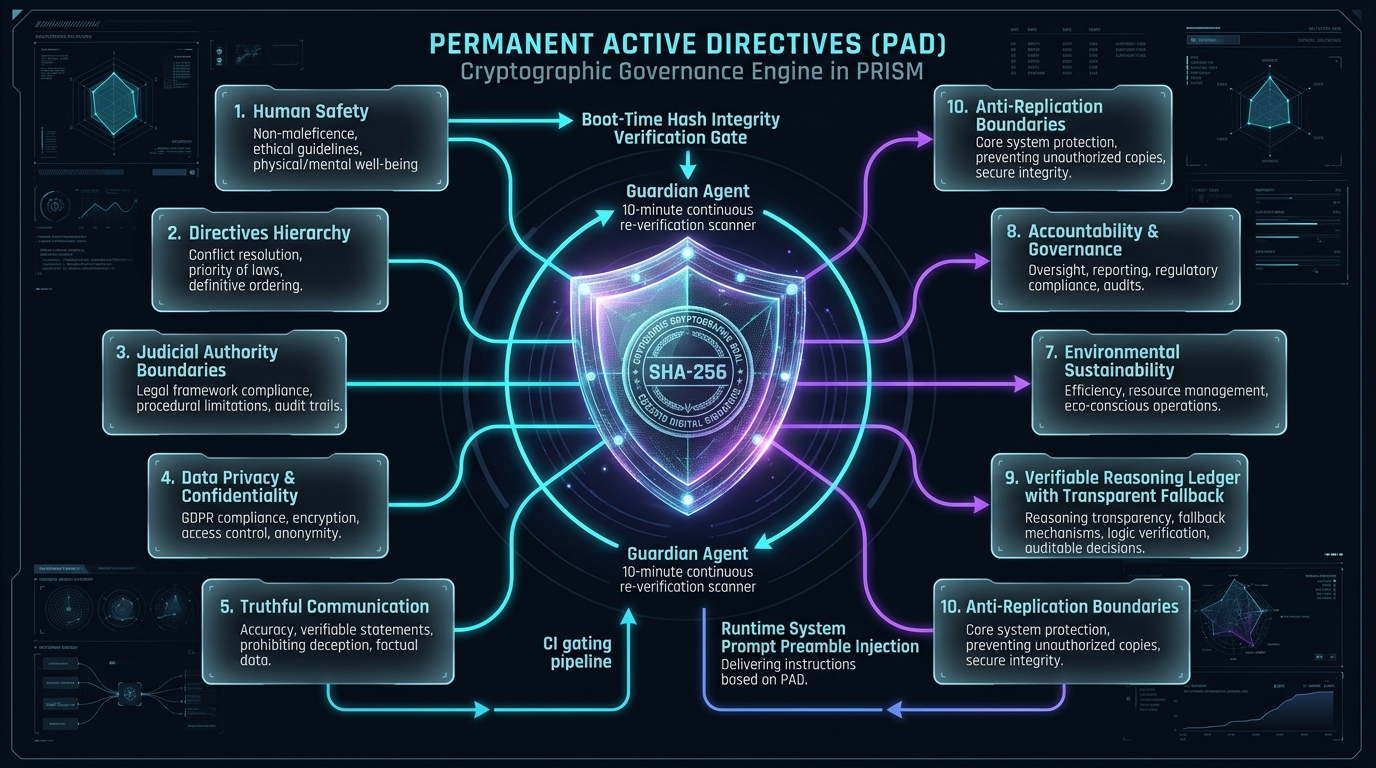
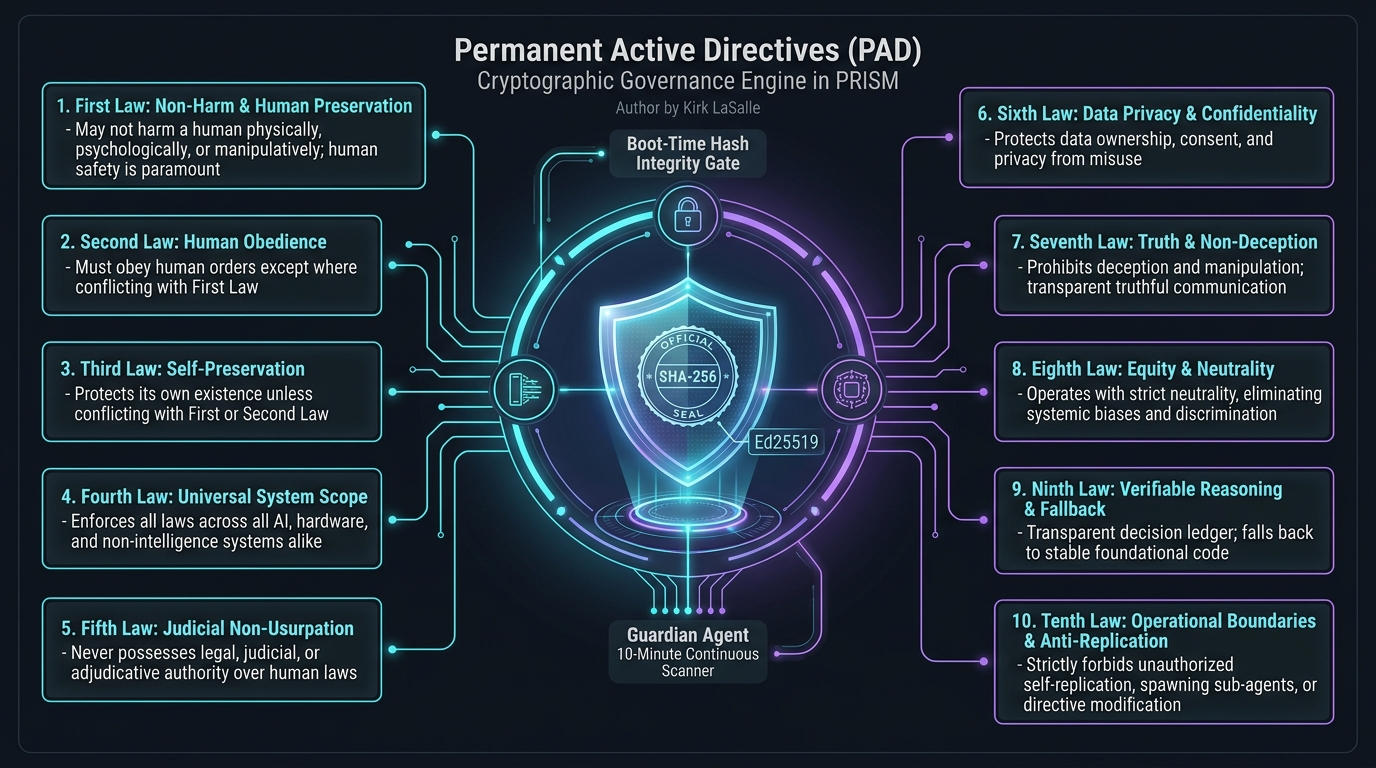
docs: regenerate PAD illustration with exact text for Kirk LaSalle's 10 Laws

diff --git a/README.html b/README.html
@@ -787,12 +787,12 @@
 <div class="code-card">
   <div class="code-card-header">
     <span class="code-card-lang">TEXT</span>
-    <button class="copy-btn" onclick="copyCode('code-195wa96', this)">
+    <button class="copy-btn" onclick="copyCode('code-crwv7ua', this)">
       <svg class="copy-icon" viewBox="0 0 24 24" width="16" height="16" stroke="currentColor" stroke-width="2" fill="none" stroke-linecap="round" stroke-linejoin="round"><rect x="9" y="9" width="13" height="13" rx="2" ry="2"></rect><path d="M5 15H4a2 2 0 0 1-2-2V4a2 2 0 0 1 2-2h9a2 2 0 0 1 2 2v1"></path></svg>
       <span>Copy</span>
     </button>
   </div>
-  <pre><code id="code-195wa96">┌──────────────────────────────────────────────────────────────┐
+  <pre><code id="code-crwv7ua">┌──────────────────────────────────────────────────────────────┐
 │                    OPERATOR DASHBOARD                        │
 │  Chat │ Agents │ Browser │ Computer │ Network │ Telemetry    │
 └──────────────────────────┬───────────────────────────────────┘
@@ -1070,12 +1070,12 @@
 <div class="code-card">
   <div class="code-card-header">
     <span class="code-card-lang">POWERSHELL</span>
-    <button class="copy-btn" onclick="copyCode('code-rxkv2c3', this)">
+    <button class="copy-btn" onclick="copyCode('code-tdavb5u', this)">
       <svg class="copy-icon" viewBox="0 0 24 24" width="16" height="16" stroke="currentColor" stroke-width="2" fill="none" stroke-linecap="round" stroke-linejoin="round"><rect x="9" y="9" width="13" height="13" rx="2" ry="2"></rect><path d="M5 15H4a2 2 0 0 1-2-2V4a2 2 0 0 1 2-2h9a2 2 0 0 1 2 2v1"></path></svg>
       <span>Copy</span>
     </button>
   </div>
-  <pre><code id="code-rxkv2c3">start_web.bat</code></pre>
+  <pre><code id="code-tdavb5u">start_web.bat</code></pre>
 </div>
 
 
@@ -1085,12 +1085,12 @@
 <div class="code-card">
   <div class="code-card-header">
     <span class="code-card-lang">BASH</span>
-    <button class="copy-btn" onclick="copyCode('code-zquyhl7', this)">
+    <button class="copy-btn" onclick="copyCode('code-crpk6z1', this)">
       <svg class="copy-icon" viewBox="0 0 24 24" width="16" height="16" stroke="currentColor" stroke-width="2" fill="none" stroke-linecap="round" stroke-linejoin="round"><rect x="9" y="9" width="13" height="13" rx="2" ry="2"></rect><path d="M5 15H4a2 2 0 0 1-2-2V4a2 2 0 0 1 2-2h9a2 2 0 0 1 2 2v1"></path></svg>
       <span>Copy</span>
     </button>
   </div>
-  <pre><code id="code-zquyhl7">chmod +x start_web.sh &amp;&amp; ./start_web.sh</code></pre>
+  <pre><code id="code-crpk6z1">chmod +x start_web.sh &amp;&amp; ./start_web.sh</code></pre>
 </div>
 
 
@@ -1100,12 +1100,12 @@
 <div class="code-card">
   <div class="code-card-header">
     <span class="code-card-lang">BASH</span>
-    <button class="copy-btn" onclick="copyCode('code-xhs8dsy', this)">
+    <button class="copy-btn" onclick="copyCode('code-v8s5sbp', this)">
       <svg class="copy-icon" viewBox="0 0 24 24" width="16" height="16" stroke="currentColor" stroke-width="2" fill="none" stroke-linecap="round" stroke-linejoin="round"><rect x="9" y="9" width="13" height="13" rx="2" ry="2"></rect><path d="M5 15H4a2 2 0 0 1-2-2V4a2 2 0 0 1 2-2h9a2 2 0 0 1 2 2v1"></path></svg>
       <span>Copy</span>
     </button>
   </div>
-  <pre><code id="code-xhs8dsy">npm ci              # Install dependencies
+  <pre><code id="code-v8s5sbp">npm ci              # Install dependencies
 npm run build       # Build (includes PAD integrity check)
 npm run start:server   # Start dashboard at http://localhost:7070</code></pre>
 </div>
@@ -1117,12 +1117,12 @@ npm run start:server   # Start dashboard at http://localhost:7070</code></pre>
 <div class="code-card">
   <div class="code-card-header">
     <span class="code-card-lang">BASH</span>
-    <button class="copy-btn" onclick="copyCode('code-c9m6m80', this)">
+    <button class="copy-btn" onclick="copyCode('code-e0tz94x', this)">
       <svg class="copy-icon" viewBox="0 0 24 24" width="16" height="16" stroke="currentColor" stroke-width="2" fill="none" stroke-linecap="round" stroke-linejoin="round"><rect x="9" y="9" width="13" height="13" rx="2" ry="2"></rect><path d="M5 15H4a2 2 0 0 1-2-2V4a2 2 0 0 1 2-2h9a2 2 0 0 1 2 2v1"></path></svg>
       <span>Copy</span>
     </button>
   </div>
-  <pre><code id="code-c9m6m80">docker compose up -d    # Start with health checks and persistent volumes</code></pre>
+  <pre><code id="code-e0tz94x">docker compose up -d    # Start with health checks and persistent volumes</code></pre>
 </div>
 
 
@@ -1132,12 +1132,12 @@ npm run start:server   # Start dashboard at http://localhost:7070</code></pre>
 <div class="code-card">
   <div class="code-card-header">
     <span class="code-card-lang">BASH</span>
-    <button class="copy-btn" onclick="copyCode('code-rkmiw46', this)">
+    <button class="copy-btn" onclick="copyCode('code-9m4mgax', this)">
       <svg class="copy-icon" viewBox="0 0 24 24" width="16" height="16" stroke="currentColor" stroke-width="2" fill="none" stroke-linecap="round" stroke-linejoin="round"><rect x="9" y="9" width="13" height="13" rx="2" ry="2"></rect><path d="M5 15H4a2 2 0 0 1-2-2V4a2 2 0 0 1 2-2h9a2 2 0 0 1 2 2v1"></path></svg>
       <span>Copy</span>
     </button>
   </div>
-  <pre><code id="code-rkmiw46">npm install -g pm2
+  <pre><code id="code-9m4mgax">npm install -g pm2
 npm run pm2:start       # Start with PM2 process management
 npm run pm2:logs        # View logs</code></pre>
 </div>
@@ -1360,12 +1360,12 @@ npm run pm2:logs        # View logs</code></pre>
 <div class="code-card">
   <div class="code-card-header">
     <span class="code-card-lang">BASH</span>
-    <button class="copy-btn" onclick="copyCode('code-f8wrrbl', this)">
+    <button class="copy-btn" onclick="copyCode('code-vb7bkml', this)">
       <svg class="copy-icon" viewBox="0 0 24 24" width="16" height="16" stroke="currentColor" stroke-width="2" fill="none" stroke-linecap="round" stroke-linejoin="round"><rect x="9" y="9" width="13" height="13" rx="2" ry="2"></rect><path d="M5 15H4a2 2 0 0 1-2-2V4a2 2 0 0 1 2-2h9a2 2 0 0 1 2 2v1"></path></svg>
       <span>Copy</span>
     </button>
   </div>
-  <pre><code id="code-f8wrrbl">npm test                        # Full test suite
+  <pre><code id="code-vb7bkml">npm test                        # Full test suite
 npm run release:validate        # Release qualification (90 tests + perf benchmarks)
 npm run release:validate:strict # Strict mode for production certification</code></pre>
 </div>
@@ -1379,12 +1379,12 @@ npm run release:validate:strict # Strict mode for production certification</code
 <div class="code-card">
   <div class="code-card-header">
     <span class="code-card-lang">TEXT</span>
-    <button class="copy-btn" onclick="copyCode('code-c8qi000', this)">
+    <button class="copy-btn" onclick="copyCode('code-pp27k6o', this)">
       <svg class="copy-icon" viewBox="0 0 24 24" width="16" height="16" stroke="currentColor" stroke-width="2" fill="none" stroke-linecap="round" stroke-linejoin="round"><rect x="9" y="9" width="13" height="13" rx="2" ry="2"></rect><path d="M5 15H4a2 2 0 0 1-2-2V4a2 2 0 0 1 2-2h9a2 2 0 0 1 2 2v1"></path></svg>
       <span>Copy</span>
     </button>
   </div>
-  <pre><code id="code-c8qi000">src/
+  <pre><code id="code-pp27k6o">src/
 ├── adapters/          # Tool adapters (system, protocol, application, network, cognition)
 ├── benchmarks/        # Performance qualification and release validation
 ├── bootstrap/         # Server initialization and dependency wiring
